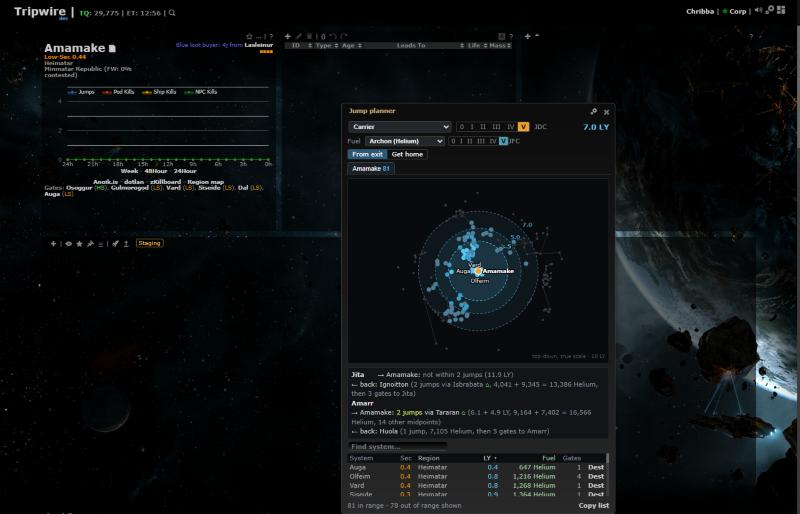
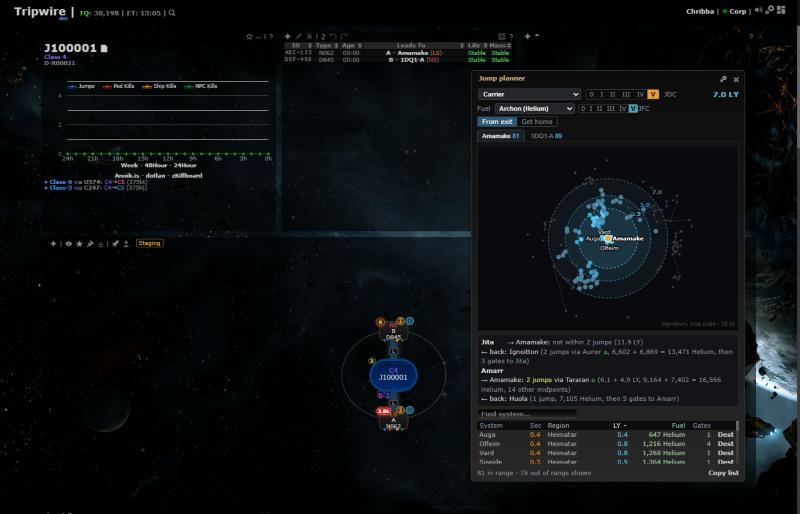
Jump planner: floating windows don't block Follow, sig keys or unblur
Review round 1: upstream treats any visible dialog as 'a dialog is open'.

diff --git a/app/js/fork/floating-windows.js b/app/js/fork/floating-windows.js
@@ -1,0 +1,10 @@
+// Floating windows (fork-owned): non-modal dialogs that can stay open while you work, like the Jump planner and the
+// Region map. They carry dialogClass "dialog-floating". Upstream treats any visible .ui-dialog as "a dialog is open"
+// (app/js/dialogs/base-dialog.js keeps #wrapper blurred, app/js/tripwire/eve.js stops Follow); fork code and the one-line
+// eve.js edit skip .dialog-floating, and this file clears the blur base-dialog.js leaves when only floating ones are open.
+if (typeof jQuery !== "undefined") {
+	// Registered after base-dialog.js, so it runs after its own dialogclose handler
+	jQuery(document).on("dialogclose", ".ui-dialog", function() {
+		if (!jQuery(".ui-dialog:visible").not(".dialog-floating").length) { jQuery("#wrapper").removeClass("blur"); }
+	});
+}

diff --git a/app/js/fork/jump-planner.js b/app/js/fork/jump-planner.js
@@ -1592,7 +1592,7 @@ if (typeof window !== "undefined" && typeof document !== "undefined" && typeof j
 			const W = jp.WINDOW;
 			$d.dialog({
 				autoOpen: false, title: "Jump planner", modal: false, resizable: true, width: W.width, height: W.height, minWidth: W.minWidth, minHeight: W.minHeight,
-				dialogClass: "dialog-noeffect ui-dialog-shadow dialog-jumpPlanner",
+				dialogClass: "dialog-noeffect ui-dialog-shadow dialog-floating dialog-jumpPlanner",
 				// The dialog's own X / Escape: like the old close icon (stays closed, also after a reload, until opened again)
 				close: function() {
 					const quiet = closingQuietly;

diff --git a/app/js/fork/sig-inline.js b/app/js/fork/sig-inline.js
@@ -425,7 +425,7 @@ const sigInline = {
 		const action = sigInline.keyAction({
 			key: e.key, ctrlKey: e.ctrlKey, metaKey: e.metaKey, altKey: e.altKey, shiftKey: e.shiftKey, repeat: e.repeat,
 			targetEditable: sigInline.targetEditable(e.target),
-			dialogOpen: $(".ui-dialog:visible").length > 0,
+			dialogOpen: $(".ui-dialog:visible").not(".dialog-floating").length > 0,	// floating windows (floating-windows.js) stay open while you work
 			selectedCount: document.querySelectorAll("#sigTable tbody tr.selected").length,
 			popoverField: p ? p.field : null,
 			focusOk: sigInline.focusOk(document.activeElement)

diff --git a/app/js/fork/region-map-view.js b/app/js/fork/region-map-view.js
@@ -872,7 +872,7 @@ if (typeof window !== "undefined" && typeof document !== "undefined" && typeof j
 			if ($d.hasClass("ui-dialog-content")) { return $d; }
 			$d.dialog({
 				autoOpen: false, title: "Region map", modal: false, resizable: true, width: 1000, height: 680, minWidth: 560, minHeight: 360,
-				dialogClass: "dialog-noeffect ui-dialog-shadow dialog-regionMap",
+				dialogClass: "dialog-noeffect ui-dialog-shadow dialog-floating dialog-regionMap",
 				open: function() {
 					measure();
 					clearInterval(state.timer);

diff --git a/app/js/tripwire/eve.js b/app/js/tripwire/eve.js
@@ -18,7 +18,7 @@ tripwire.EVE = function(EVE, characterChange) {
         }
 
         // System follower
-        if (!characterChange && options.buttons.follow && (this.client.EVE && this.client.EVE.systemID != EVE.systemID) && $(".ui-dialog:visible").length == 0) {
+        if (!characterChange && options.buttons.follow && (this.client.EVE && this.client.EVE.systemID != EVE.systemID) && $(".ui-dialog:visible").not(".dialog-floating").length == 0) {
             tripwire.systemChange(EVE.systemID);
         }
 

diff --git a/changes/2026-10-17-jump-planner-floating/README.md b/changes/2026-10-17-jump-planner-floating/README.md
@@ -14,7 +14,7 @@ and resize it anywhere over the chain map, and it no longer pushes the layout ar
 | ![before](before.jpg) | ![after](after.jpg) |
 
 Before: the planner is a layout tile, placed under the chain map (partly off-screen at 1400x900). After: a floating
-window, dragged over the chain map.
+window over the layout, next to a chain with two k-space exits.
 
 ## Settings
 
@@ -33,4 +33,9 @@ against.
   removed once, on the first load.
 - Removed the grid code (`defaultPlacement`, `savedPlacement`, `gridEntry`, `SIZE`/`MIN_SIZE`/`COL_PX`).
 - `app/css/fork/jump-planner.css`: dialog styles; the body scrolls when the window is short.
-- No upstream files touched.
+- `app/js/fork/floating-windows.js` (new): non-modal windows that can stay open (`dialog-floating`: the Jump planner
+  and the Region map) no longer count as "a dialog is open". It clears the page blur that
+  `app/js/dialogs/base-dialog.js` leaves when Settings closes over one. `sig-inline.js` keeps the signature table's
+  keys working while one is open.
+- Upstream file touched: `app/js/tripwire/eve.js` (one line): Follow skips `.dialog-floating` windows, so it keeps
+  following while the planner is open.

diff --git a/docker/README.md b/docker/README.md
@@ -870,7 +870,7 @@ DDL in `watchlist/watchlist.inc.php`, reference copy `docker/sql/watchlist.sql`)
 
 ### Jump planner
 
-A range-ring icon on the chain's low-sec / null-sec exits opens the Jump planner panel (`app/js/fork/jump-planner.js`):
+A range-ring icon on the chain's low-sec / null-sec exits opens the Jump planner window (`app/js/fork/jump-planner.js`):
 which systems a jump ship reaches from that exit, by distance band, on a top-down mini-map and a list, plus trade-hub
 reach. The range maths is a separate pure engine, `app/js/fork/jump-range.js` (tests: `app/js-test/fork/jump-range.test.js`,
 `jump-midpoints.test.js`). No configuration. The browser's only external call is CCP's public ESI, like the chain map's own
